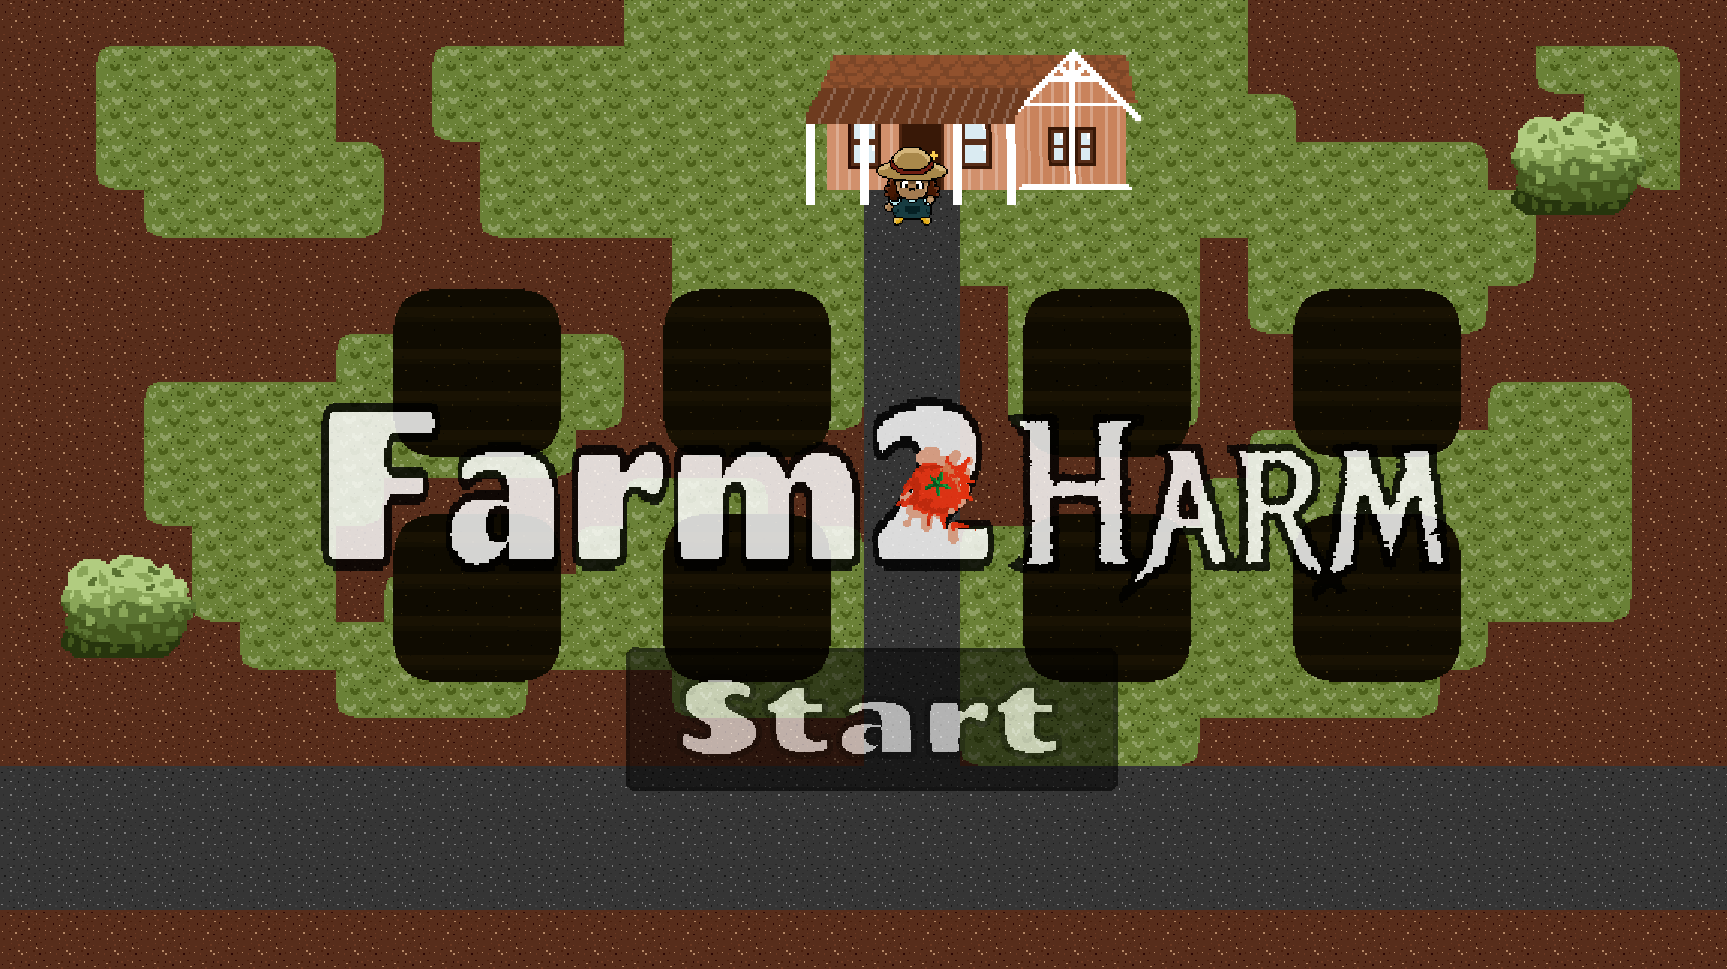
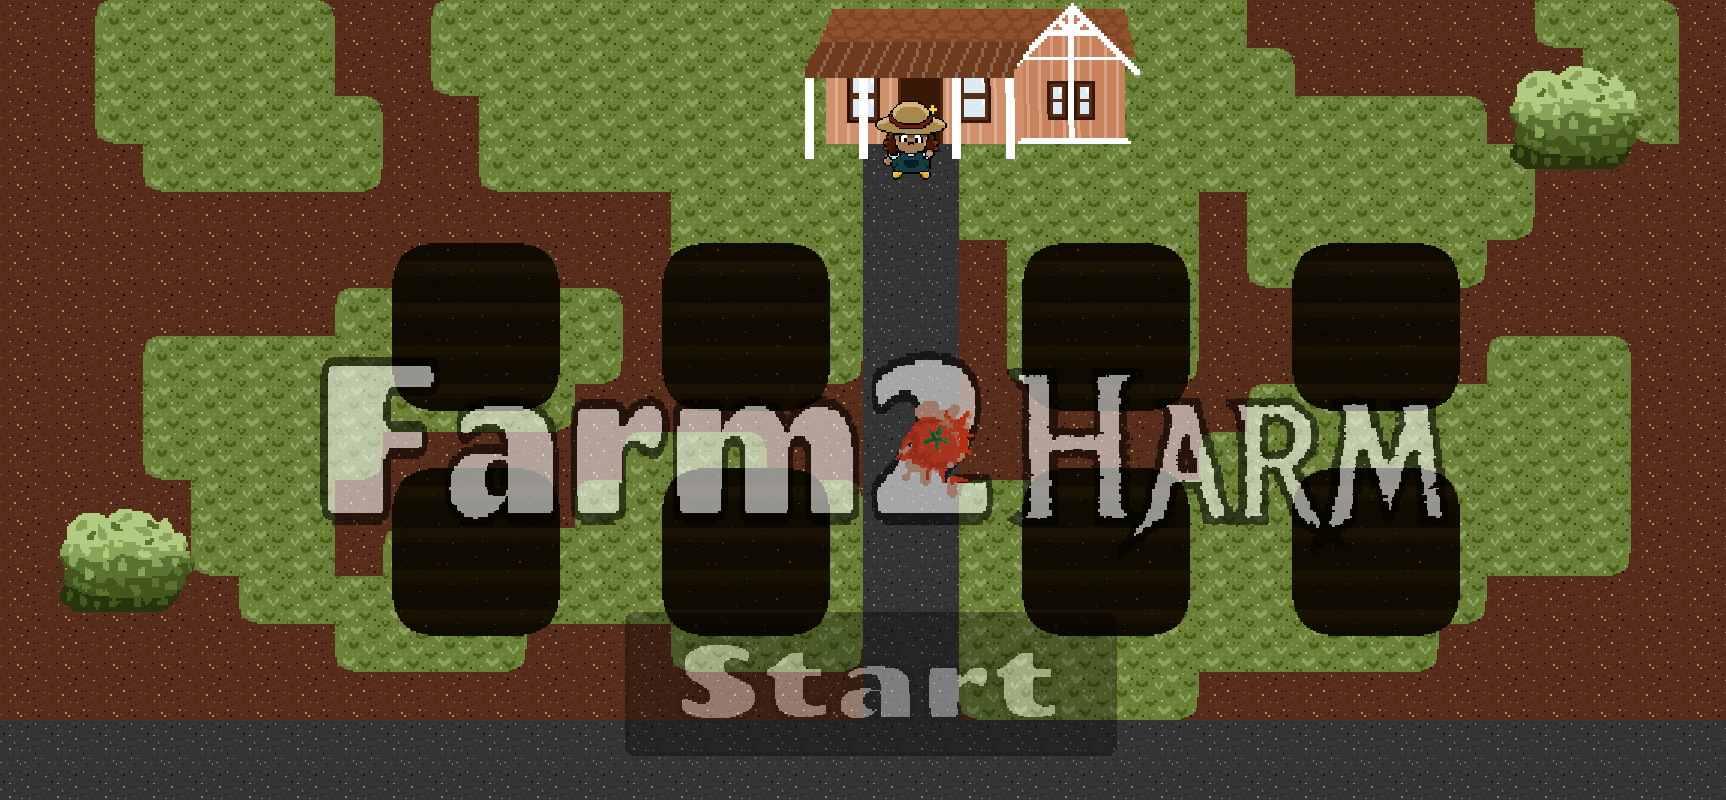
improved pictures; hover gives transparent effect; background not solid colour

diff --git a/my-app/src/components/PortfolioPage.jsx b/my-app/src/components/PortfolioPage.jsx
@@ -1,19 +1,17 @@
 import ProjectPreview from './ProjectPreview';
 import so_long_pic from '../assets/so_long_screencap.png'
 import minishell_pic from '../assets/minishell_screencap.png'
-import sf_pic from '../assets/sounds_familiar.png'
-import f2h_pic from '../assets/f2h_screencap.png'
-import cub3d_pic from '../assets/cub3d_screencap.png'
-import webserv_pic from '../assets/webserv_placeholder.png'
-import transcendence_pic from '../assets/transcendence_placeholder.png'
+import sf_pic from '../assets/sounds_familiar_cap2.png'
+import f2h_pic from '../assets/f2h_screencap2.png'
+import cub3d_pic from '../assets/cub3d_screencap2.png'
+import webserv_pic from '../assets/webserv_cap.png'
+import transcendence_pic from '../assets/transcendence_screencap.png'
 
 export default function PortfolioPage(){
 	return (
 		<div className="all-blocks">
-			{/* <div className="main-site">
-			<h1>Portfolio (under construction)</h1>
-			</div> */}
-			<div style={{backgroundColor: "#bd71c0", width: "100%", height: "100%", alignContent: "center", textAlign: "center", justifyContent: "center", justifyItems: "center"}}><h2>CODAM Projects</h2></div>
+			{/* <div style={{backgroundColor: "#bd71c0", width: "100%", alignContent: "center", textAlign: "center", justifyContent: "center", justifyItems: "center"}}><h2>CODAM Projects</h2></div> */}			
+			<div style={{backgroundColor: "#bd71c0", width: "100%", alignContent: "center", textAlign: "center", justifyContent: "center", justifyItems: "center"}}><h2>CODAM Projects</h2></div>
 			<div className="experience-block">
 				<ProjectPreview
 				ProjectName={"minishell"}
@@ -21,48 +19,55 @@ export default function PortfolioPage(){
 				ProjectStack={"C, Bash"}
 				ProjectURL={"https://github.com/manon-cg/minishell"}
 				ProjectDescription={"Team project to create a Unix shell in C that functions like Bash. Focus points were parsing command line input, process forking, I/O redirection and basic signal handling."}
+				ProjNumber="0"
 				/>
 				<ProjectPreview
 				ProjectName={"cub3d"}
 				ProjectPic={cub3d_pic}
-				ProjectStack={"C, MLX42"}
+				ProjectStack={"C, MLX42 (graphics library)"}
 				ProjectDescription={"Team project to create a Wolfenstein-like 3D game where you can walk through a maze of blocks in first person view. Involved parsing maps, ray casting the visuals using vector mathematics, and allowing smooth player movement, using the school graphical library (MLX42)."}
+				ProjNumber="1"
 				/>
 				<ProjectPreview
 				ProjectName={"so_long"}
 				ProjectPic={so_long_pic}
-				ProjectStack={"C, MLX42"}
+				ProjectStack={"C, MLX42 (graphics library)"}
 				ProjectDescription={"Solo project to build a 2D game in C, using the school's MLX42 graphic library. The user can load a map that will be parsed for walkability and rendered for the player, who needs to exit through the door after collecting all collectibles."}
+				ProjNumber="2"
 				/>
 				<ProjectPreview
 				ProjectName={"webserv"}
 				ProjectPic={webserv_pic}
-				ProjectStack={"C++, HTTP, "}
+				ProjectStack={"C++, HTTP, HTML/CSS"}
 				ProjectDescription={"Team project to build a functioning HTTP 1.1 server in C++. This involved research into protocols and sockets, parsing of configuration files and HTTP requests, and building the correct responses following request execution."}
+				ProjNumber="3"
 				/>
 				<ProjectPreview
 				ProjectName={"ft_transcendence"}
 				ProjectPic={transcendence_pic}
-				ProjectStack={"TypeScript, React, ExpressJS"}
+				ProjectStack={"TypeScript, React, HTML, Tailwind CSS, ExpressJS, Postgres + Prisma ORM, npm"}
 				ProjectURL={"https://github.com/SmokedSeaSalt/Transcendence"}
-				ProjectDescription={"Team project to build a web application. We chose a multiplayer speed-typing game, where players are connected together in a room using sockets that pass their progress to each other. We used React and TypeScript for the frontend, ExpressJS and TypeScript for the backend, and PostgreSQL for the database."}
+				ProjectDescription={"Team project to build a web application. We chose a multiplayer speed-typing game, where players are connected together in a room using sockets that pass their progress to each other."}
+				ProjNumber="4"
 				/>
 			</div>
-			<div style={{backgroundColor: "#b0c071", width: "100%", height: "100%", alignContent: "center", textAlign: "center", justifyContent: "center", justifyItems: "center"}}><h2>Game Jams</h2></div>
+			<div style={{backgroundColor: "#ffd5ff", width: "100%", height: "100%", alignContent: "center", textAlign: "center", justifyContent: "center", justifyItems: "center"}}><h2>Game Jams</h2></div>
 			<div className="experience-block">
 			<ProjectPreview
 				ProjectName={"Pixel Forge JAM #2"}
 				ProjectPic={sf_pic}
-				ProjectStack={"Godot,"}
+				ProjectStack={"Godot, GDScript"}
 				ProjectURL={"https://plutopu.itch.io/sounds-familiar"}
 				ProjectDescription={"Game built with a team in Godot during a weeklong game jam."}
+				ProjNumber="6"
 			/>
 			<ProjectPreview
 				ProjectName={"CODAM Game Jam"}
 				ProjectPic={f2h_pic}
-				ProjectStack={"Godot,"}
+				ProjectStack={"Godot, GDScript"}
 				ProjectURL={"https://plutopu.itch.io/farm2harm"}
 				ProjectDescription={"Game built with a team in Godot during a weeklong game jam."}
+				ProjNumber="7"
 			/>
 			</div>
 			{/* <div className="experience-block">Websites</div> */}

diff --git a/my-app/src/App.css b/my-app/src/App.css
@@ -30,9 +30,14 @@
   color: #61dafb;
 } */
 
+/* .a:hover {
+  opacity: 50%;
+} */
+
 .my-header {
-  background-color: #666abd;
-  min-height: 5vh;
+  /* background-color: #666abd; */
+  background-color: #463183;
+  min-height: 6vh;
   display: flex;
   align-items: center; /** vertical */
   justify-content: center;
@@ -45,20 +50,19 @@
 .my-footer {
   /* background-color: #242769; */
   background-color: rgb(14, 6, 45);
-  min-height: 2vh;
+  min-height: 3vh;
+  height: fit-content;
   display: flex;
   flex-direction: column;
-  align-items: center; /** vertical */
+  align-items: end;
   border-top: 2px solid  #3a4f7a;
   justify-content: center;
   font-size: 12px;
-  padding: 1px;
   font-weight: bold;
   color: #bccded;
-  position: fixed;
+  position: sticky;
   bottom: 0px;
   width: 100%;
-  z-index: 100;
 }
 
 .main-site {
@@ -89,6 +93,19 @@
   background-color: rgb(127, 111, 166);
 }
 
+.img-button {
+  /* background-color: #4c0e58; */
+  border-radius: 20px;
+  background: transparent;
+  border: none;
+  padding: 10px;
+  margin-left: 5px;
+}
+
+.img-button:hover {
+  background-color: #bccded;
+}
+
 .all-blocks{
   display: flex;
   flex-direction: column; /** stack on top */
@@ -98,7 +115,7 @@
 }
 
 .experience-block{
-  background-color: #bccded;
+  background-color: #bd9ccc;
   width: 90vw;
   max-width: 1600px;
   min-height: 100px;
@@ -106,23 +123,43 @@
   /* justify-content: center; */
   margin-bottom: 20px;
   flex-wrap: wrap;
-  margin-top: 5px;
+  /* margin-top: 20px; */
   border-radius: 10px;
   display: flex;
   /* flex-direction: column; */
   position: relative;
   align-items: stretch;
+  overflow: hidden;
 }
 
-.project-preview{
-  background-color: rgb(173, 136, 188);
-  /* width: calc(50% - 8px); */
-  width: 50%;
-  /* min-height: 100%; */
-  
-  
+/* .project-preview{
+  width: 100%;
+  aspect-ratio: 600 / 260;
+  background-image: 'url(' + var(--project-pic) + ')';
+  background-size: cover;
+  background-position: center;
+}  
+
+.project-preview:hover{
+  opacity: 50%;
+} */
+
+div:hover {
+  opacity: var(--hover-opacity);
 }
 
+.preview-img {
+  width: 100%;
+  aspect-ratio: 600 / 260;
+  /* background-image: url(assets/cub3d_screencap.png); */
+  background-size: cover;
+  background-position: center;
+}
+
+.preview-img:hover{
+  opacity: 50%;
+  /* or another effect */
+}
 
 /* @keyframes App-logo-spin {
   from {

diff --git a/my-app/src/components/ProjectPreview.jsx b/my-app/src/components/ProjectPreview.jsx
@@ -1,15 +1,25 @@
 
-export default function ProjectPreview({ ProjectName, ProjectPic, ProjectStack, ProjectURL, ProjectDescription }){
+
+export default function ProjectPreview({ ProjectName, ProjectPic, ProjectStack, ProjectURL, ProjectDescription, ProjNumber }){
+	
+	const bg_colours = ["#ad88bc", "#bd9ccc"];
+	const preview_style = {
+		width: "calc(50%)",
+ 		backgroundColor: bg_colours[(ProjNumber % 4) == 0 || (ProjNumber % 4) == 3 ? 0 : 1],
+	};
+	
+
 
 	return (
-		<div className="project-preview">
-			<div style={{backgroundColor: "white", border: "1px solid pink"}}><h3 style={{margin: "0px", padding: "4px"}}>{ProjectName}</h3></div>
-			{/* todo: make the top bar look like a computer bar? but then width should be 100% */}
-			<div><a href={ProjectURL}><img src={ProjectPic} alt="project screencap" width="100%"></img></a></div>
-			{/* todo: make alt a function var as well */}
+		<div style={preview_style}>
+			<div style={{backgroundColor: "white", border: "1px solid #bd9ccc"}}><h3 style={{margin: "0px", padding: "4px"}}>{ProjectName}</h3></div>
+			<a href={ProjectURL}><div style={{width: "100%", aspectRatio: "600 / 260", backgroundImage: 'url(' + ProjectPic + ')', backgroundSize: "cover", backgroundPosition: "center", '--hover-opacity':0.5}}></div></a>
+			{/* <a href={ProjectURL}><div className="project-preview --project-pic:{ProjectPic}" /></a> */}
+			{/* <a href={ProjectURL}><div className="preview-img backgroundImage: url(ProjectPic)"></div></a> */}
+			{/* todo: make alt text a function var as well */}
 			<div style={{paddingRight: "10px", paddingLeft: "10px"}}>
 				<p align="justify">{ProjectDescription}</p>
-				<p align="left"><b>Skills:</b> {ProjectStack}</p>
+				<p align="left"><b>Stack:</b> {ProjectStack}</p>
 			</div>
 		</div>
 	);

diff --git a/my-app/src/components/Header.jsx b/my-app/src/components/Header.jsx
@@ -1,19 +1,21 @@
 /** imports here */
-import Button from "./Button";
+import ImageButton from "./ImageButton";
+import linkedin_img from "../assets/linkedin_logo.png"
+import github_img from "../assets/github_logo.svg"
 
 export default function Header(){
 
 	return (
 		<div className="my-header">
-			<div style={{position: "fixed", left: "10px", margin: "10px"}}><h1>Portfolio</h1></div>
+			<div style={{position: "fixed", left: "10px", margin: "10px"}}><h1>PORTFOLIO</h1></div>
 			<div style={{position: "fixed", right: "10px", display: "flex", alignContent: "center", justifyItems: "center", margin: "10px"}}>
-				<Button
+				<ImageButton
 					buttonLink={"https://www.linkedin.com/in/manon-groos/"}
-					buttonText={"LinkedIn"}
+					buttonImg={linkedin_img}
 				/>
-				<Button
+				<ImageButton
 					buttonLink={"https://github.com/manon-cg"}
-					buttonText={"GitHub"}
+					buttonImg={github_img}
 				/>
 			</div>
 		</div>

diff --git a/my-app/src/components/ImageButton.jsx b/my-app/src/components/ImageButton.jsx
@@ -1,0 +1,11 @@
+/** Buttons with an image instead of text */
+
+export default function ImageButton({ buttonLink, buttonImg }){
+	return (
+		<a href={buttonLink}>
+			<button className="img-button">
+				<img src={buttonImg} style={{width: "100px", filter: "brightness(0%) invert(1)"}}></img>
+			</button>
+		</a>
+	);
+}

diff --git a/my-app/src/components/Footer.jsx b/my-app/src/components/Footer.jsx
@@ -1,9 +1,9 @@
-/** imports here */
+import Button from "./Button";
 
 export default function Footer(){
 	return (
 		<header className="my-footer">
-			<div style={{position: "fixed", right: "30px"}}>
+			<div style={{marginRight: "20px"}}>
 				<p>© Manon Groos - 2026</p>
 			</div>
 		</header>
